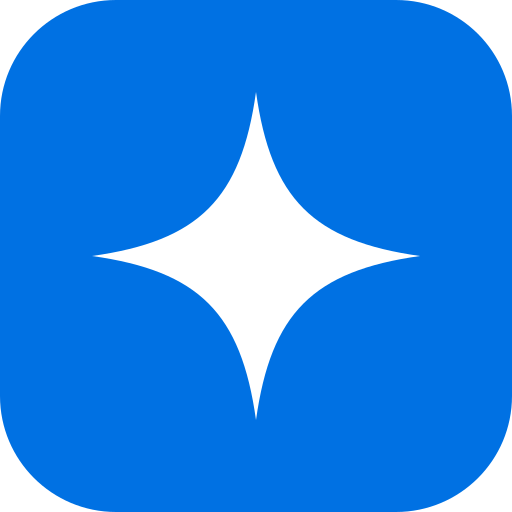
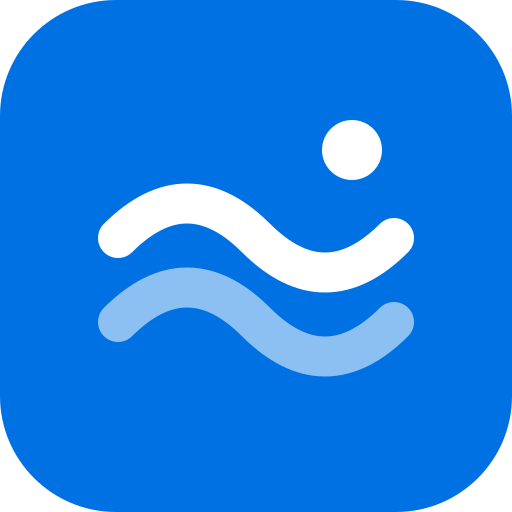
Rename the site 观潮 (Tide) and give it its mark
- site.ts: the name 观潮, the tagline 看清 AI 的潮水, the home title, the
  organization and the crawler's name. The MCP tool prefix stays myhot_ so
  connected agents keep working.
- The mark: two waves and a sun, white on Apple blue (logo.svg and the app
  icons and favicon rendered from it); wordmark.svg and wordmark-dark.svg
  set it beside the name (glyphs as paths) for share images, posters and
  video frames. The page wordmark draws the same mark inline (LogoMark).

Claude-Session: https://claude.ai/code/session_01PHfqoVaKU3MttkgVRUNuHj

Changed region(s): [[0.1875, 0.1875, 0.8125, 0.8125], [0.625, 0.2188, 0.75, 0.375]]

diff --git a/site/brand/Logo.tsx b/site/brand/Logo.tsx
@@ -1,11 +1,23 @@
-// 站点的字标和圆环标记：页面用 Wordmark 画站名（size 是高度，单位像素），RingMark 是小标记，转起来就是加载动画。
-// 这里用站名排字；有自己的 Logo 时，把 Wordmark 换成你的 SVG（保持同样的参数）。
+// 站点的标志和字标：LogoMark 是图标（和 logo.svg 同一个图形），Wordmark 是图标加站名（size 是高度，单位像素），
+// RingMark 是小标记，转起来就是加载动画。换成你的 Logo 时，改这里和 logo.svg、wordmark*.svg（保持同样的参数）。
 import { SITE } from "../site.ts";
+
+/** 观潮的图标：Apple 蓝底上两道潮水和一轮日头。 */
+export function LogoMark({ size = 24, className = "" }: { size?: number; className?: string }) {
+  return (
+    <svg viewBox="0 0 512 512" width={size} height={size} className={className} aria-hidden="true">
+      <rect width="512" height="512" rx="116" fill="#0071e3" />
+      <path d="M118 238c46-46 92-46 138 0s92 46 138 0" fill="none" stroke="#fff" strokeWidth="40" strokeLinecap="round" />
+      <path d="M118 322c46-46 92-46 138 0s92 46 138 0" fill="none" stroke="#fff" strokeWidth="40" strokeLinecap="round" opacity=".55" />
+      <circle cx="352" cy="150" r="30" fill="#fff" />
+    </svg>
+  );
+}
 
 export function Wordmark({ size = 24, className = "", title = SITE.name }: { size?: number; className?: string; title?: string }) {
   return (
-    <span className={`inline-flex items-center font-black leading-none tracking-[-0.03em] ${className}`} style={{ fontSize: Math.round(size * 0.92) }} aria-label={title} role="img">
-      <span aria-hidden="true" className="mr-[0.3em] inline-block size-[0.42em] rounded-full bg-brand" />
+    <span className={`inline-flex items-center gap-[0.32em] font-bold leading-none tracking-[-0.02em] ${className}`} style={{ fontSize: Math.round(size * 0.86) }} aria-label={title} role="img">
+      <LogoMark size={Math.round(size * 1.1)} />
       <span aria-hidden="true">{SITE.name}</span>
     </span>
   );

diff --git a/site/site.ts b/site/site.ts
@@ -18,14 +18,14 @@ export const EDITION_WHEN = {
 
 export const SITE = {
   /** 站名：导航、页面标题、分享图、RSS、MCP、后台都用它。 */
-  name: "MyHOT",
+  name: "观潮",
   /**
    * 行业词：拼进默认说法里，比如“AI 日报”“AI 动态”。
    * 改成“法律”“HR”“黄金”之类，页面上就会变成“法律日报”“法律动态”。
    */
   subject: "AI",
   /** 首页的完整标题（浏览器标签、搜索结果）。 */
-  homeTitle: "MyHOT — AI 行业动态 · 每日精选与日报",
+  homeTitle: "观潮 — 看清 AI 的潮水 · 每日精选与日报",
   /** 主题目录页（/topics）的标题。 */
   topicsTitle: "AI 主题：公司与模型、技术方向、内容形态的最新动态",
   /** 反馈表单输入框里的示例。 */
@@ -39,7 +39,7 @@ export const SITE = {
   /** llms.txt 里一句话介绍下面的一段详细介绍（选填）。 */
   llmsIntro: null as string | null,
   /** 一行小字：分享图、海报下方。 */
-  tagline: "值得关注的 AI 动态",
+  tagline: "看清 AI 的潮水",
   /** 搜索引擎读到的关键词（首页结构化数据）。 */
   keywords: ["AI 资讯", "AI 新闻", "AI 日报", "AI 行业动态"] as string[],
   /** 网站开始收录的年份（结构化数据的时间范围，选填）。 */
@@ -70,12 +70,12 @@ export const SITE = {
   github: null as string | null,
   /** 结构化数据里的网站运营者（搜索引擎用）。 */
   organization: {
-    name: "MyHOT",
+    name: "观潮 Tide",
     /** 创始人（选填）。 */
     founder: null as null | { name: string; alternateName?: string; jobTitle?: string; description?: string; url?: string },
   },
   /** 抓取信源时报上的名字和版本（User-Agent 里用），不要冒用别的站。 */
-  crawlerName: "MyHOTBot/1.0",
+  crawlerName: "TideBot/1.0",
 } as const;
 
 /** 使用规则和隐私说明两页（正文在 pages/ 里）。 */

diff --git a/docs/deploy.md b/docs/deploy.md
@@ -86,6 +86,7 @@ docker compose run --rm setup && docker compose up -d
 - 全站换成浅灰底、白色卡片、Apple 蓝的配色（深色模式为纯黑），应用图标、分享图和分享海报一起换了。浏览器和分享平台可能还缓存着旧图标、旧分享图，过一段时间会更新。
 - 视频画面也换成新配色，已有的视频都会重新生成：每 10 分钟最多 3 期，最新的先做，14 期日报加 8 期周报全部补齐大约要两小时；还没轮到的旧视频会先下架。
 - 报告页右下角的悬浮小视频卡去掉了，视频播报的入口在底部导航、侧栏和首页。
+- 站名改为“观潮”（Tide），口号“看清 AI 的潮水”，新的图标和字标（`site/brand/`）。MCP 工具名的前缀（`mcpPrefix`，`myhot_…`）没有改，已经接入的 Agent 不受影响。
 
 #### 视频由 Caddy 直接发出、生成时让出 CPU（2026 年 10 月 12 日）
 
